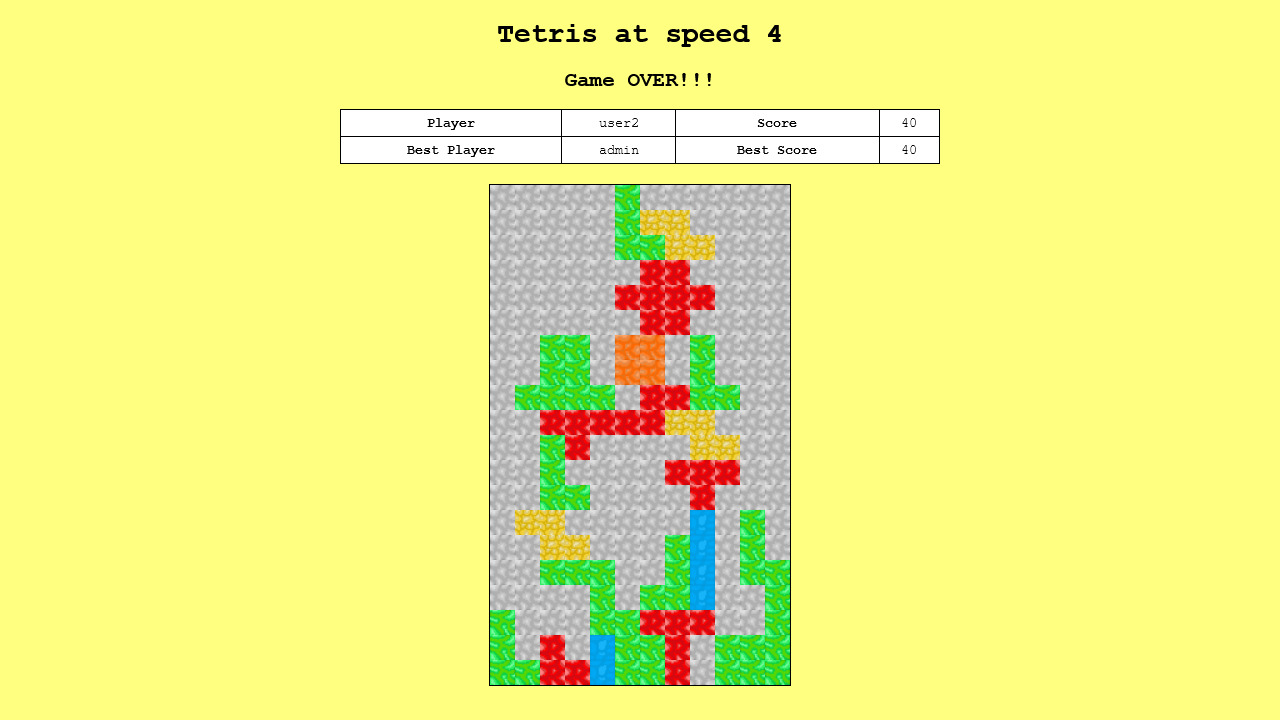
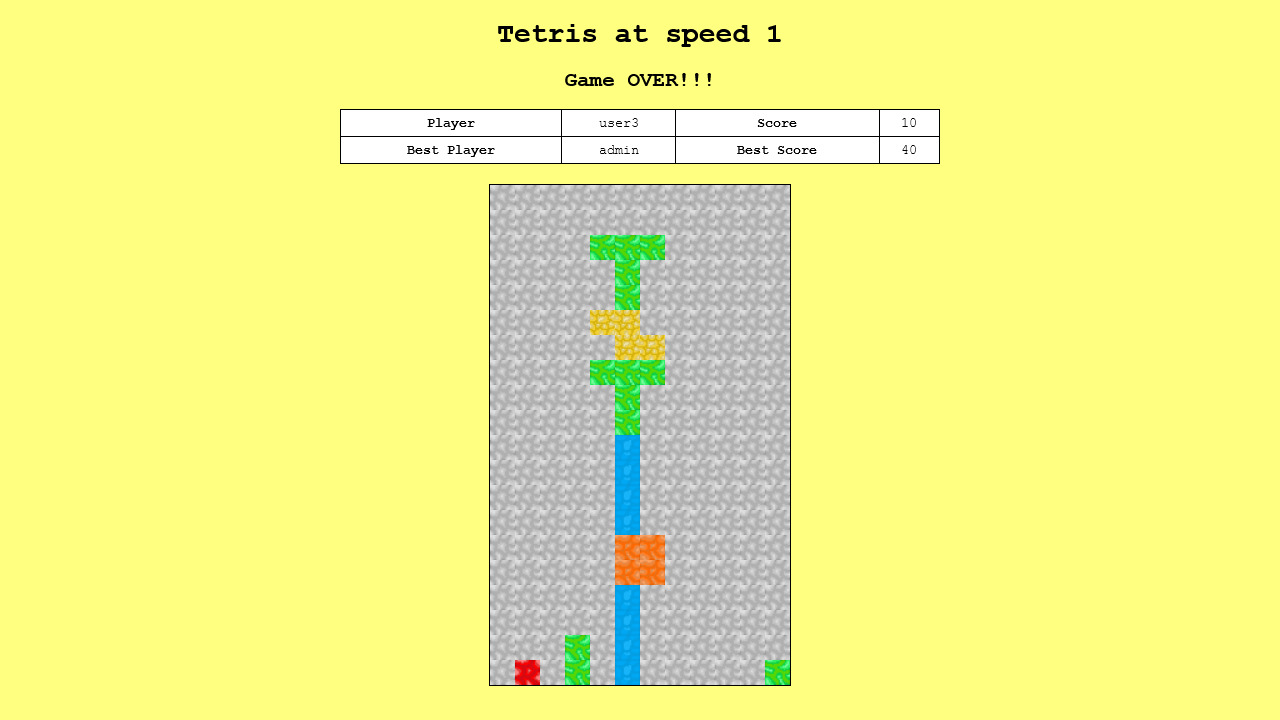
Fixed GameServiceImpl

Changed region(s): [[0.375, 0.2444, 0.625, 0.9778], [0.5938, 0.0306, 0.625, 0.0611]]

diff --git a/src/main/java/com/app/game/tetris/gameserviceImpl/GameServiceImpl.java b/src/main/java/com/app/game/tetris/gameserviceImpl/GameServiceImpl.java
@@ -8,19 +8,19 @@ import com.app.service.grpc.GameRecordRequest;
 import com.app.service.grpc.PlayerRequest;
 import lombok.extern.slf4j.Slf4j;
 import net.devh.boot.grpc.client.inject.GrpcClient;
-import org.springframework.scheduling.annotation.Async;
+import org.json.JSONObject;
 import org.springframework.stereotype.Service;
 
 import java.util.List;
-import java.util.concurrent.CompletableFuture;
 
 @Service
 @Slf4j
 public class GameServiceImpl implements GameService {
+
     @GrpcClient("game-service")
     private GameIntegrationServiceGrpc.GameIntegrationServiceBlockingStub gameStub;
 
-    private final GameClient gameClient; // Для record и delete
+    private final GameClient gameClient; // Декларативный Feign-клиент для удалений
 
     public GameServiceImpl(GameClient gameClient) {
         this.gameClient = gameClient;
@@ -28,72 +28,67 @@ public class GameServiceImpl implements GameService {
 
     @Override
     public String getGameData(String playerName) {
+        try {
+            log.info("🛰️ Запрос gRPC статистики для игрока: {}", playerName);
 
-            try {
-                log.info("🛰️ Запрос gRPC статистики для игрока: {}", playerName);
+            var request = PlayerRequest.newBuilder().setPlayerName(playerName).build();
+            var res = gameStub.getGameScore(request);
 
-                // 1. Делаем gRPC вызов
-                var request = PlayerRequest.newBuilder().setPlayerName(playerName).build();
-                var res = gameStub.getGameScore(request);
+            // 🔥 ОПТИМИЗАЦИЯ: Безопасная сборка через нативный JSONObject (исключает ошибки синтаксиса JSON)
+            JSONObject json = new JSONObject();
+            json.put("bestplayer", res.getBestPlayer());
+            json.put("bestscore", res.getBestScore());
+            json.put("playerbestscore", res.getPlayerBestScore());
+            json.put("playerAttemptsNumber", res.getPlayerAttemptsNumber());
 
-                // 2. Формируем JSON-строку вручную (как того хочет JSONObject в контроллере)
-                // Важно: ключи "bestplayer" и "bestscore" должны быть маленькими буквами
-                return String.format(
-                        "{\"bestplayer\":\"%s\",\"bestscore\":%d,\"playerbestscore\":%d,\"playerAttemptsNumber\":%d}",
-                        res.getBestPlayer(),
-                        res.getBestScore(),
-                        res.getPlayerBestScore(),
-                        res.getPlayerAttemptsNumber()
-                );
-            } catch (Exception e) {
-                log.error("❌ Ошибка gRPC при получении данных: {}", e.getMessage());
-                // Возвращаем пустой объект, чтобы JSONObject не упал при парсинге
-                return "{}";
-            }
-
+            return json.toString();
+        } catch (Exception e) {
+            log.error("❌ Ошибка gRPC при получении данных игрока {}: {}", playerName, e.getMessage());
+            return "{}";
+        }
     }
 
     @Override
     public List<com.app.game.tetris.model.Game> getAllGames() {
         log.info("📦 Запрос полного списка игр через gRPC");
         try {
-            // 1. Делаем вызов к микросервису через gRPC стаб
             var response = gameStub.getAllGames(Empty.newBuilder().build());
 
-            // 2. Превращаем gRPC-ответы в объекты модели твоего приложения
-            return response.getGamesList().stream()
+            // 🔥 ЗАЩИТА ОТ THREAD PINNING: Убираем лог из каждой итерации маппинга
+            List<com.app.game.tetris.model.Game> games = response.getGamesList().stream()
                     .map(g -> {
-                        log.info("🔍 Маппинг игры: id={}, player={}", g.getId(), g.getPlayerName());
-                        // Создаем объект Game (используем конструктор: playerName, playerScore)
                         var game = new com.app.game.tetris.model.Game(g.getPlayerName(), g.getPlayerScore());
-
-                        // Устанавливаем ID (в gRPC это int64, в Java Long — должно совпасть)
                         game.setId(g.getId());
-
                         return game;
                     })
                     .toList();
 
+            log.info("🎯 Успешно смапплено {} игр из gRPC-канала", games.size());
+            return games;
+
         } catch (Exception e) {
             log.error("❌ Ошибка при получении списка игр по gRPC: {}", e.getMessage());
-            // Возвращаем пустой список, чтобы контроллер и админка не "упали"
             return List.of();
         }
     }
 
-    @Async
+    // 🔥 ИСПРАВЛЕНИЕ: Убираем @Async, так как метод уже изолирован в Loom-экзекуторе контроллера
     @Override
     public void deleteGameData(String playerName) {
-        gameClient.deleteGameData(playerName);
+        try {
+            log.info("🗑️ Вызов каскадного удаления Feign для игрока: {}", playerName);
+            gameClient.deleteGameData(playerName);
+        } catch (Exception e) {
+            log.error("❌ Ошибка Feign при каскадном удалении данных: {}", e.getMessage());
+        }
     }
 
-    @Async
+    // 🔥 ИСПРАВЛЕНИЕ: Убираем @Async, управление потоком полностью контролирует loomExecutor контроллера
     @Override
     public void doRecord(com.app.game.tetris.model.Game game) {
         try {
-            log.info("🏆 gRPC: Сохранение рекорда...");
+            log.info("🏆 gRPC: Сохранение рекорда для игрока: {}", game.getPlayerName());
 
-            // ВАЖНО: используем именно GameRecordRequest (как в новом .proto)
             var request = GameRecordRequest.newBuilder()
                     .setPlayerName(game.getPlayerName())
                     .setPlayerScore(game.getPlayerScore())
@@ -106,4 +101,3 @@ public class GameServiceImpl implements GameService {
         }
     }
 }
-